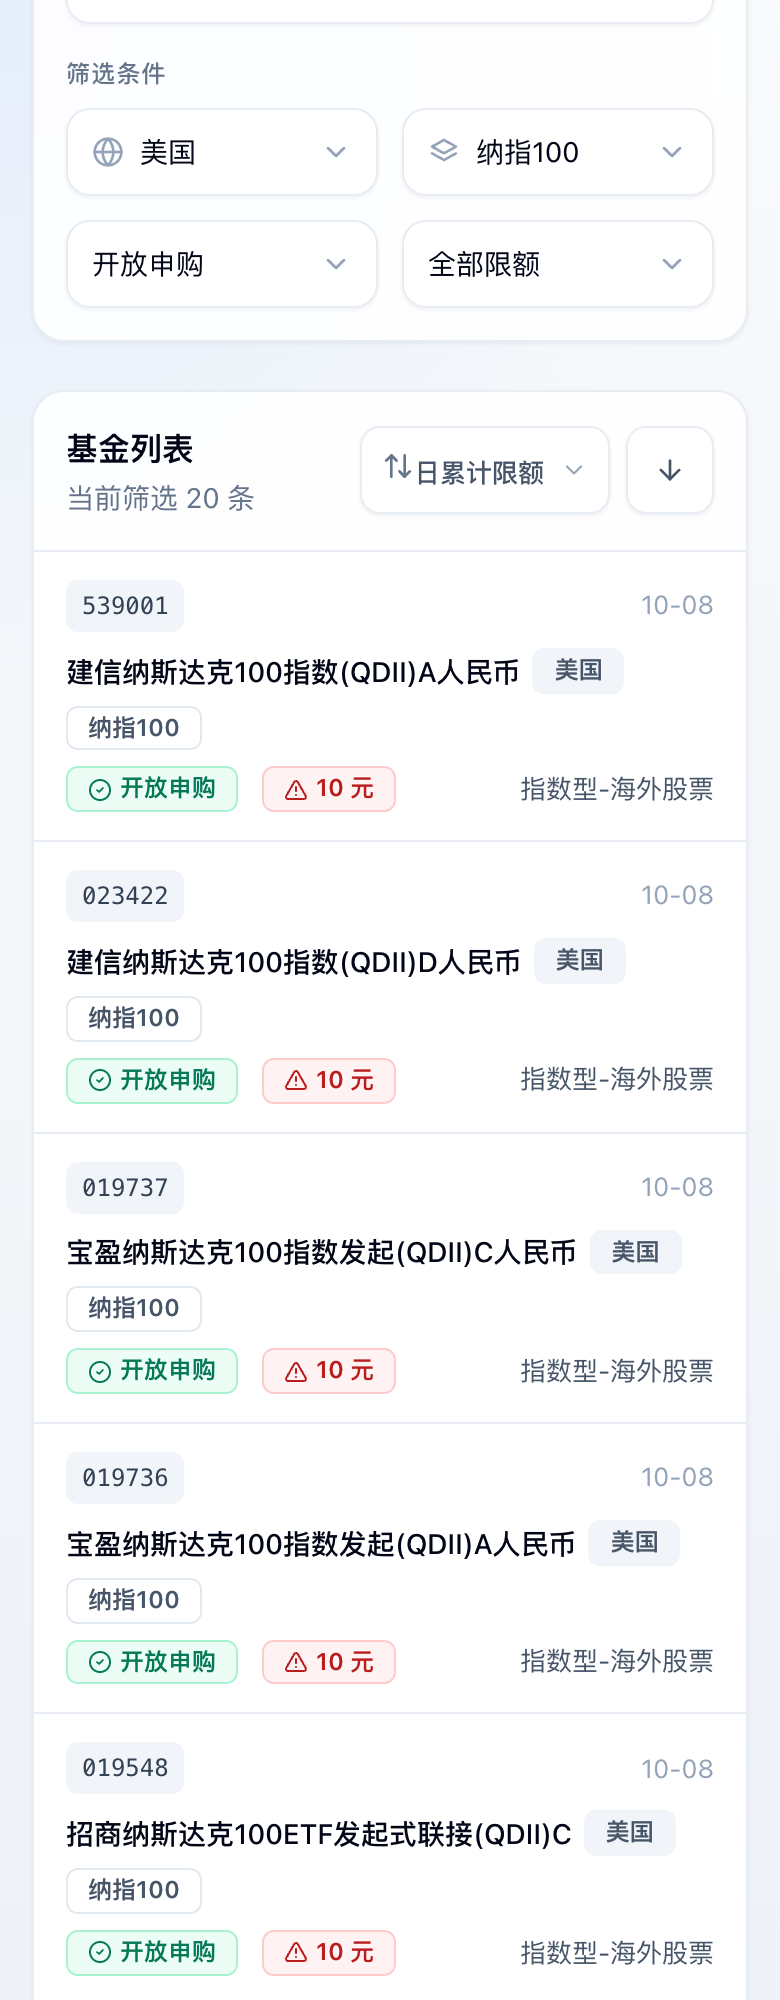
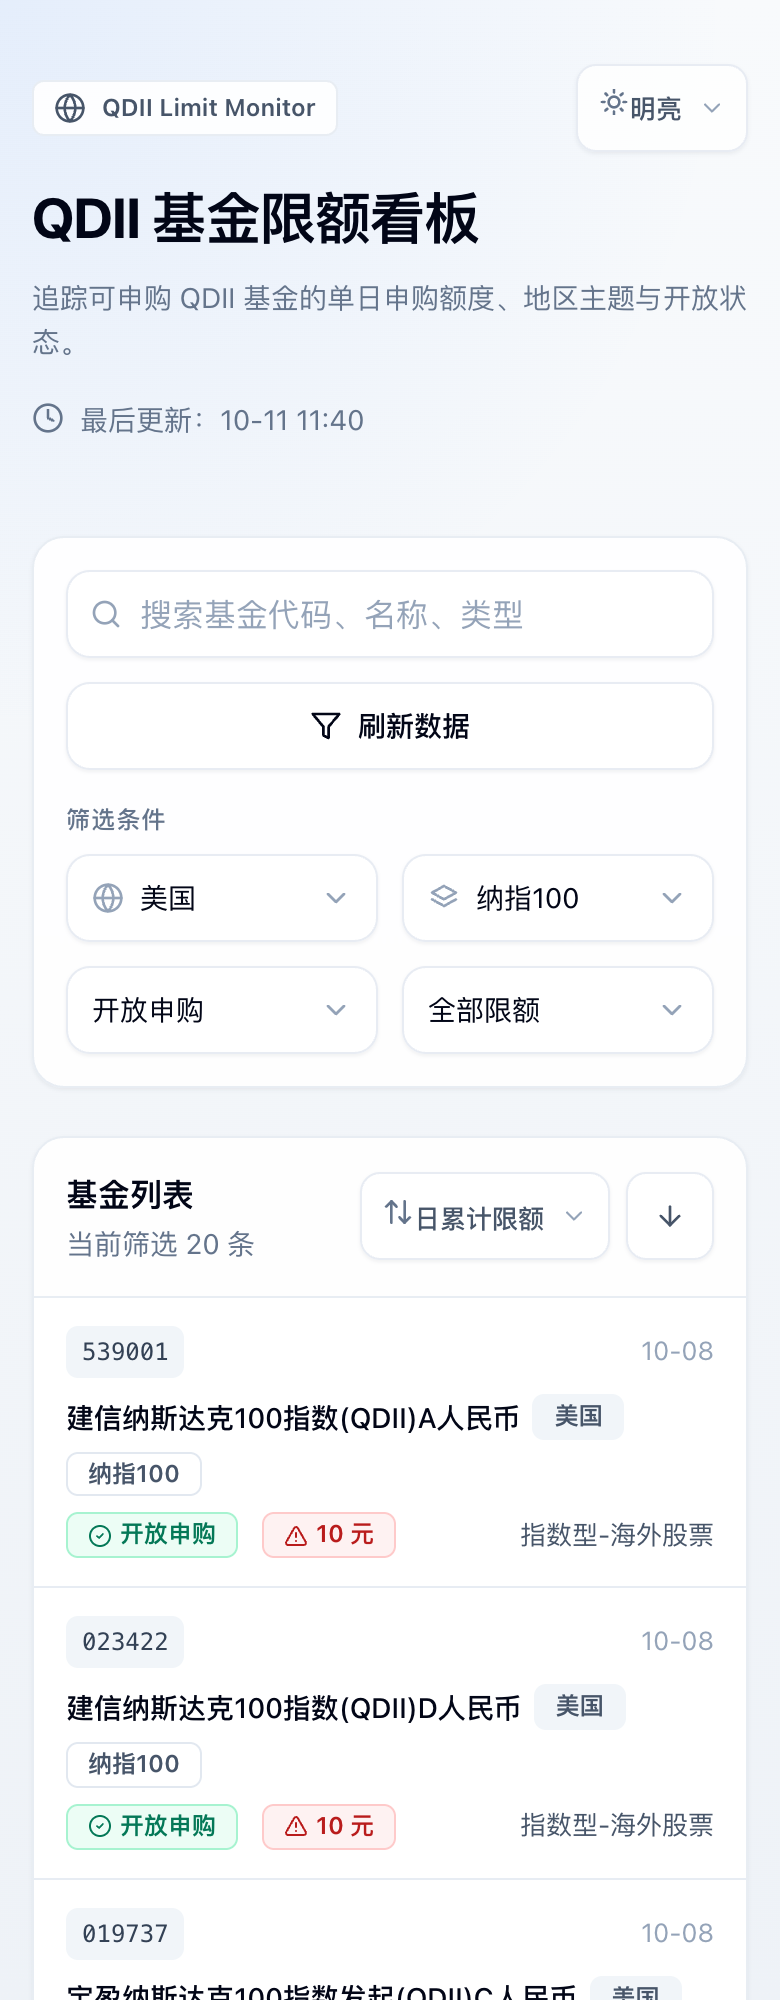
style: 窄屏下主题切换移到标题行右上角
- 661px 这类窄面板里，主题切换原本被推到「最后更新」行最右，与时间戳之间留出大片空白、悬在副标题下方
- 改为与原站移动端一致：窄屏放在徽标同排的右上角，时间戳单独一行靠左
- 主题切换按钮高度与其它控件统一为 40px（触屏 44px）
- 同步更新手机端预览图与 README

diff --git a/public/index.html b/public/index.html
@@ -30,14 +30,17 @@
       <div class="container">
         <header class="page-header">
           <div class="brand">
-            <span class="pill">
-              <svg class="icon" viewBox="0 0 24 24" aria-hidden="true">
-                <circle cx="12" cy="12" r="10" />
-                <path d="M12 2a14.5 14.5 0 0 0 0 20 14.5 14.5 0 0 0 0-20" />
-                <path d="M2 12h20" />
-              </svg>
-              QDII Limit Monitor
-            </span>
+            <div class="brand-top">
+              <span class="pill">
+                <svg class="icon" viewBox="0 0 24 24" aria-hidden="true">
+                  <circle cx="12" cy="12" r="10" />
+                  <path d="M12 2a14.5 14.5 0 0 0 0 20 14.5 14.5 0 0 0 0-20" />
+                  <path d="M2 12h20" />
+                </svg>
+                QDII Limit Monitor
+              </span>
+              <div id="theme-toggle-compact" class="theme-toggle-compact"></div>
+            </div>
             <div>
               <h1>QDII 基金限额看板</h1>
               <p class="lead">追踪可申购 QDII 基金的单日申购额度、地区主题与开放状态。</p>

diff --git a/public/styles.css b/public/styles.css
@@ -195,6 +195,32 @@ h2 {
   gap: 0.75rem;
 }
 
+/* 窄屏时主题切换上移到标题行右上角（与徽章同排），避免它孤零零挂在时间戳行最右侧 */
+.brand-top {
+  display: flex;
+  align-items: center;
+  justify-content: space-between;
+  gap: 0.75rem;
+}
+
+.theme-toggle-compact {
+  display: none;
+}
+
+@media (max-width: 767px) {
+  .theme-toggle-compact {
+    display: block;
+  }
+
+  .header-side .dropdown {
+    display: none;
+  }
+
+  .header-side {
+    justify-content: flex-start;
+  }
+}
+
 .pill {
   display: inline-flex;
   align-items: center;
@@ -435,7 +461,7 @@ h2 {
 
 /* 头部主题切换等紧凑控件：图标与文字间距收紧，圆角与卡片观感统一 */
 .btn-compact {
-  height: 2.25rem;
+  height: 2.5rem;
   padding: 0 0.625rem;
   border-radius: 0.625rem;
   font-size: 0.8125rem;

diff --git a/public/app.js b/public/app.js
@@ -449,7 +449,7 @@ function renderError() {
 
 function renderThemeToggle() {
   const current = getThemeModeOption()
-  $("#theme-toggle-root").replaceChildren(
+  const build = () =>
     buildControl({
       key: "theme-mode",
       iconName: current.icon,
@@ -466,8 +466,11 @@ function renderThemeToggle() {
           render()
         },
       })),
-    }),
-  )
+    })
+
+  // 宽屏放在「最后更新」行右侧；窄屏由 CSS 切到标题行右上角那个
+  $("#theme-toggle-root").replaceChildren(build())
+  $("#theme-toggle-compact").replaceChildren(build())
 }
 
 function renderRefreshButton() {

diff --git a/README.md b/README.md
@@ -25,7 +25,7 @@
 
 ![手机端](docs/preview-mobile.png)
 
-- **手机（< 768px）**：表格改为卡片式行——第一行是基金代码与日期，第二行是名称与地区/主题徽章，第三行是申购状态、日累计限额与基金类型。状态和限额不再需要横向滚动就能看到；表头隐藏后，排序改用列表头右侧的「排序字段 + 升降序」控件（桌面端隐藏该控件，直接点表头排序）。
+- **手机（< 768px）**：表格改为卡片式行——第一行是基金代码与日期，第二行是名称与地区/主题徽章，第三行是申购状态、日累计限额与基金类型。状态和限额不再需要横向滚动就能看到；表头隐藏后，排序改用列表头右侧的「排序字段 + 升降序」控件（桌面端隐藏该控件，直接点表头排序）。主题切换移到标题行右上角（与徽标同排），避免它孤零零挂在时间戳行最右侧。
 - **平板竖屏（768–1099px）**：折叠「基金类型」列，代码 / 名称 / 申购状态 / 日累计限额 / 日期全部一屏可见，且保留可点击排序的表头。折叠用的是「零宽 + 裁剪」而不是 `display:none`——固定列宽表格里隐藏单元格会让后续单元格整体左移一列造成错位。
 - **触屏设备**：按钮、下拉、搜索框的点按目标统一放大到 44px 以上，并去掉只在悬停时成立的反馈；过滤条件下拉菜单加大行高。
 - **其它**：过滤条件在手机上排成两列以节省纵向空间；支持刘海屏安全区（`env(safe-area-inset-*)`）；`theme-color` 让移动浏览器地址栏跟随明暗；禁用 iOS 横屏自动放大字号（`text-size-adjust`）。
